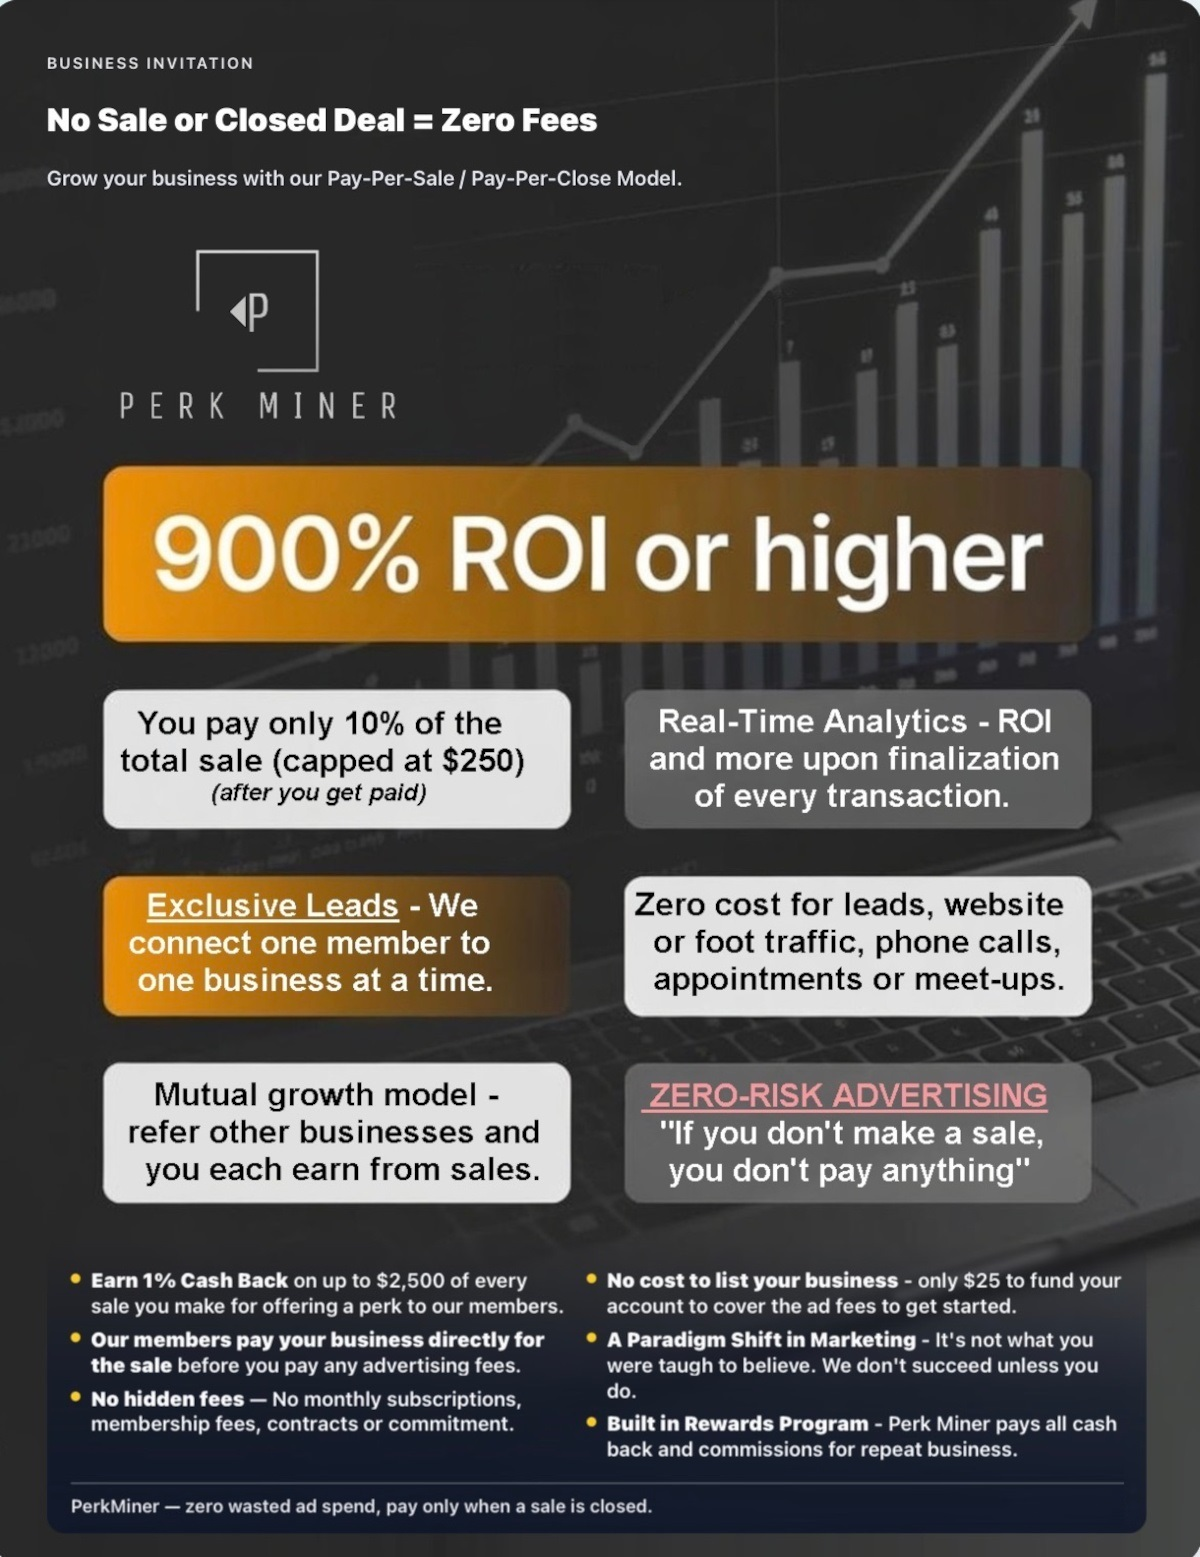
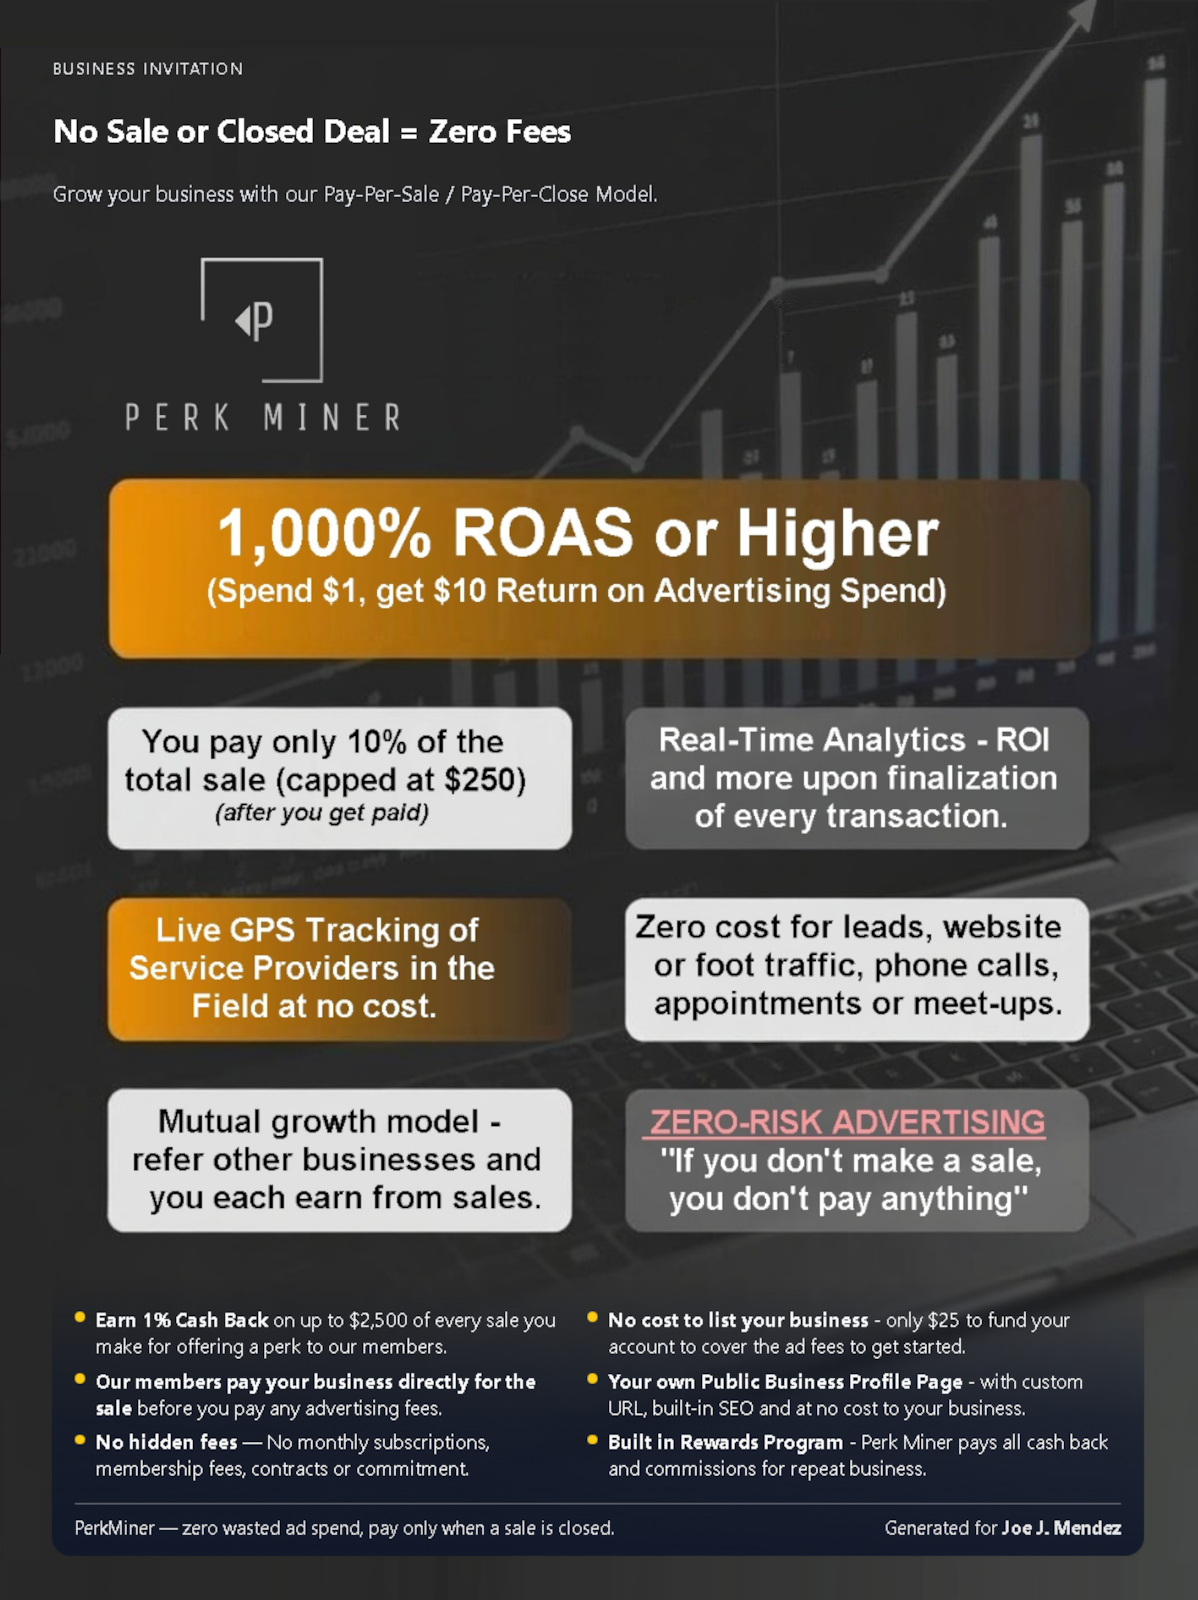
fixed undefined error net pay and updated flyers

diff --git a/templates/dashboard.html b/templates/dashboard.html
@@ -481,10 +481,11 @@
       rows="3"
       class="form-control mb-2"
       style="max-width:520px; font-size:0.9rem;"
-    >Earn 2% cash back and referral commission (real cash - not points or gift cards) on everyday purchases.
-    PAYOUT AND COST:  Perk Miner pays out up to 84% of it's ad revenue from every finalized transaction to members and business owners on up to $2,500 of every purchase made.  Free to Join and always free.
+    >Free to join and always free for members.  Earn 2% cash back on everyday purchases or for paid services rendered (on up to $2,500 of every transaction).
+    Perk Miner LLC re-invests up to 84% of its advertising revenue from every finalized transaction back in the ecosystem with its rewars program in the form of withdrawable earnings deposited to bank accounts; not points, coupons or gift cards.
     PEACE OF MIND:  Search for businesses, product or services with peace of mind through secure messaging and without ever worry about your information being sold as a lead.  No unsolicited phone calls, spam emails or uninvited sales people.  We connect one member to one business at a time and businesses never have access to member contact information.
-    FREE BUSINESS OPPORTUNITY:  Our members have the opportunity to own their own business with zero cost, zero investment and zero risk.  This is your opportunity to own your own advertising agency an grow a real business with real results.  No set hours or office needed.  Just invite people to become members and business owners to advertise and you earn from every finalized transaction (from real sales).
+    LIVE TRACKING:  Have a scheduled appointment for service with one of our advertisers?  With PerkMiner.com, you receive real-time status updates and can track your service provider in real-time when the status is "on the way" with an ETA.  Wrong address?  You can update the correct destination address to make sure they're going to the correct address.
+    FREE BUSINESS OPPORTUNITY:  Our members have the opportunity to own their own business with zero cost, zero investment and zero risk.  This is your opportunity to own your own advertising agency and grow a real business with real results.  No set hours or office needed.  Just invite people to become members and business owners to advertise and you earn from every finalized transaction (from real sales).
     Join PerkMiner through my link today!:
     {{ share_url }}</textarea>
 
@@ -565,7 +566,8 @@
       rows="3"
       class="form-control mb-2"
       style="max-width:520px; font-size:0.9rem;"
-  >Business owners: Want advertising where you only pay when a sale actually closes with 900% ROI or higher?  What about getting exclusive leads at no cost to your business (one member connected to one business at a time and not oversold to your competitors), plus zero cost for website and foot traffic, phone calls, appointments and meetups?
+  >Business owners: Want advertising where you only pay when a sale actually closes with 1000% ROAS (Return on Advertising Spend) or higher (spend $1 = $10 sale)?  What about getting exclusive leads at no cost to your business (one member connected to one business at a time and not oversold to your competitors), plus zero cost for website and foot traffic, phone calls, appointments and meetups?
+   LIVE TRACKING:  Have service techs in the field?  We give you the ability to see every service provider's location in real-time when the status is set to "on the way" and with zero cost to your business.  You receive status updates for every service call and if the destination address is incorrect, members can update the destination address for you (reduced fuel waste, time and unnecessary vehicle wear and tear).
    WHAT'S THE COST?  You simply pay 10% of the sale (capped at $250) after you get paid.  No hidden fees, no contracts, no monthly membership fees, subscriptions.  All you have to do is finalize the transaction once you've received payment and make sure that you have enough in your account balance to cover the advertising fee prior to getting paid.
    REWARDS PROGRAM:  Perk Miner also rewards it's members for making purchases from it's advertisers and it's advertisers for finalizing transactions (all cash back and commissions are paid by Perk Miner from the advertising revenue paid - up to 84% of the advertising revenue is paid out to members and businesses from every finalized transaction).
    MUTUAL GROWTH MODEL:  By joining and inviting other business owners to join, you each earn a commission from each other's sales (finalized transactions) through Perk Miner and at the same time, I am also rewarded.  It's a mutual growth model designed to help businesses prosper and it's all paid by Perk Miner ... not by your business.
@@ -726,9 +728,9 @@
             <i class="bi bi-bank"></i> Standard Payout (1-3 business days)
           </div>
           <div class="text-muted mb-1" style="font-size:0.97em;">
-                Stripe transfer fee to Stripe balance: ${{ '{:,.2f}'.format(std_fee_inv) }} (0.5% + $0.35)<br>
-                If you withdraw full balance to your Stripe balance, you will receive: <b>${{ '{:,.2f}'.format(std_net_inv) }}<br>
-                Stripe may charge an additional fee to send funds to your bank account ($0.25 or more)</b>
+                Perk Miner transfer fee to Stripe balance: ${{ '{:,.2f}'.format(std_fee) }} (0.5% + $0.35)<br>
+                If you withdraw full balance to your Stripe balance, you will receive: <b>${{ '{:,.2f}'.format(std_net) }}<br>
+                Stripe may charge an additional fee to send funds to your bank account.</b>
           </div>
           <form action="{{ url_for('withdraw') }}" method="POST" class="d-inline">
             <input type="hidden" name="csrf_token" value="{{ csrf_token() }}">
@@ -812,9 +814,9 @@
                 <i class="bi bi-bank"></i> Investor Standard Payout (1-3 business days) - Note: If you withdraw regular earnings, you must wait for regular earnings to clear in order to withdraw silent investor earnings.
               </div>
               <div class="text-muted mb-1" style="font-size:0.95em;">
-                Stripe transfer fee to Stripe balance: ${{ '{:,.2f}'.format(std_fee_inv) }} (0.5% + $0.35)<br>
-                If you withdraw full balance to your Stripe balance, you will receive: <b>${{ '{:,.2f}'.format(std_net_inv) }}<br>
-                Stripe may charge an additional fee to send funds to your bank account ($0.25 or more)</b>
+                Perk Miner transfer fee to Stripe balance: ${{ '{:,.2f}'.format(std_fee) }} (0.5% + $0.35)<br>
+                If you withdraw full balance to your Stripe balance, you will receive: <b>${{ '{:,.2f}'.format(std_net) }}<br>
+                Stripe may charge an additional fee to send funds to your bank account.</b>
               </div>
               <form action="{{ url_for('withdraw_investor') }}" method="POST" class="d-inline">
                 <input type="hidden" name="csrf_token" value="{{ csrf_token() }}">

diff --git a/templates/business_dashboard.html b/templates/business_dashboard.html
@@ -386,7 +386,7 @@
     {% if biz_level_code == 'biz_founding_5' %}
       <h5>Congratulations, Founding Business!</h5>
       <p class="mb-2">
-        As a founding business with <strong>5 finalized transactions</strong>, you can upload a testimonial video.
+        As one of our advertisers with <strong>5 finalized transactions</strong>, you can upload a testimonial video.
       </p>
     {% else %}
       <h5>Congratulations! You qualify to upload a Testimonial Video</h5>
@@ -865,14 +865,15 @@
     rows="3"
     class="form-control mb-2"
     style="max-width:520px; font-size:0.9rem;"
-  >Business owners: Want advertising where you only pay when a sale actually closes with 900% ROI or higher?  What about getting exclusive leads at no cost to your business (one member connected to one business at a time and not oversold to your competitors), plus zero cost for website and foot traffic, phone calls, appointments and meetups?
+  >Business owners: Want advertising where you only pay when a sale actually closes with 1000% ROAS (Return on Advertising Spend) or higher (spend $1 = $10 sale)?  What about getting exclusive leads at no cost to your business (one member connected to one business at a time and not oversold to your competitors), plus zero cost for website and foot traffic, phone calls, appointments and meetups?
+   LIVE TRACKING:  Have service techs in the field?  We give you the ability to see every service provider's location in real-time when the status is set to "on the way" and with zero cost to your business.  You receive status updates for every service call and if the destination address is incorrect, members can update the destination address for you (reduced fuel waste, time and unnecessary vehicle wear and tear).
    WHAT'S THE COST?  You simply pay 10% of the sale (capped at $250) after you get paid.  No hidden fees, no contracts, no monthly membership fees, subscriptions.  All you have to do is finalize the transaction once you've received payment and make sure that you have enough in your account balance to cover the advertising fee prior to getting paid.
    REWARDS PROGRAM:  Perk Miner also rewards it's members for making purchases from it's advertisers and it's advertisers for finalizing transactions (all cash back and commissions are paid by Perk Miner from the advertising revenue paid - up to 84% of the advertising revenue is paid out to members and businesses from every finalized transaction).
-   MUTUAL GROWTH MODEL:  By joining and using my referral code, my business earns a commission from every sale (finalized transactions) that your business makes through Perk Miner and at the same time, when my business finalizes a transaction, your business earns a commission (also from every finalized transaction).  It's a mutual growth model designed to help our businesses prosper and it's all paid by Perk Miner ... not by your business.
+   MUTUAL GROWTH MODEL:  By joining and inviting other business owners to join, you each earn a commission from each other's sales (finalized transactions) through Perk Miner and at the same time, I am also rewarded.  It's a mutual growth model designed to help businesses prosper and it's all paid by Perk Miner ... not by your business.
    NEEDED TO GET STARTED:  It only takes $25 to fund your account (this is not a fee, but is used to cover the advertising fee when you make a sale) to get started.  $25 covers $250 in sales.  If your lowest sale is over $2,500, you must deposit $250 or more to cover the advertising fee.
    No special equipment required to finalize transactions and you or your staff can finalize transactions in seconds.  Upon successful finalization of every transaction, you also get real-time analytics and you also see your cash back earned.  That's right!  You earn cash back for finalizing transactions in return for offering a perk to Perk Miner members (you earn 10% of the advertising fee paid).
-   There is zero risk to your business.  Join PerkMiner as an advertiser (become and advertiser like me) through my business invite link today:
-   {{ b2b_share_url }}</textarea>
+   There is zero risk to your business.  Join PerkMiner as an advertiser through my business invite link today:
+{{ business_share_url }}</textarea>
 
   <button
     type="button"
@@ -1093,9 +1094,9 @@
             <i class="bi bi-bank"></i> Standard Payout (1-10 business days)
           </div>
           <div class="text-muted mb-1" style="font-size:0.97em;">
-            Stripe transfer fee to Stripe balance: ${{ '{:,.2f}'.format(std_fee_inv) }} (0.5% + $0.35)<br>
-            If you withdraw full balance to your Stripe balance, you will receive: <b>${{ '{:,.2f}'.format(std_fee_biz) }}<br>
-            Stripe may charge an additional fee to send funds to your bank account ($0.25 or more)</b>
+            Perk Miner transfer fee to Stripe balance: ${{ '{:,.2f}'.format(std_fee_biz) }} (0.5% + $0.35)<br>
+            If you withdraw full balance to your Stripe balance, you will receive: <b>${{ '{:,.2f}'.format(std_net_biz) }}<br>
+            Stripe may charge an additional fee to send funds to your bank account.</b>
           </div>
           <form action="{{ url_for('business_withdraw') }}" method="POST" class="d-inline">
             <input type="hidden" name="csrf_token" value="{{ csrf_token() }}">

diff --git a/app.py b/app.py
@@ -4431,6 +4431,23 @@ def dashboard():
             flash("Profile updated!")
         return redirect(url_for('dashboard'))
 
+    # --- Perk Miner transfer fee preview for regular member earnings ---
+    FEE_RATE = Decimal("0.005")   # 0.5%
+    FIXED_FEE = Decimal("0.35")   # $0.35
+
+    # example basis: use current net_available if > 0, else show example on $100
+    if net_available and net_available > 0:
+        example_balance = net_available
+    else:
+        example_balance = Decimal("100.00")
+
+    std_fee = (example_balance * FEE_RATE + FIXED_FEE).quantize(Decimal("0.01"))
+    std_net = (example_balance - std_fee).quantize(Decimal("0.01"))
+
+    # --- initialize investor fee preview defaults (may be overwritten below) ---
+    std_fee_inv = Decimal("0")
+    std_net_inv = Decimal("0")
+
     # --- Rewards calculator setup ---
     if request.method == "GET":
         form.downline_level.data = '1'
@@ -4574,6 +4591,15 @@ def dashboard():
 
         db.session.commit()
 
+        # investor transfer fee preview
+        if investor_net_available and investor_net_available > 0:
+            example_inv_balance = investor_net_available
+        else:
+            example_inv_balance = Decimal("100.00")
+
+        std_fee_inv = (example_inv_balance * FEE_RATE + FIXED_FEE).quantize(Decimal("0.01"))
+        std_net_inv = (example_inv_balance - std_fee_inv).quantize(Decimal("0.01"))
+
     share_url = url_for("register", ref=user.referral_code, _external=True)
     business_share_url = url_for("business_register", ref=user.referral_code, _external=True)
 
@@ -4612,6 +4638,11 @@ def dashboard():
         available_earnings=available_earnings,           # raw, if you still want it
         net_available_earnings=net_available,            # matches Withdrawable Earnings
         withdrawn_total=withdrawn_total,                 # for "Total withdrawn" row
+
+        std_fee=std_fee,
+        std_net=std_net,
+        std_fee_inv=std_fee_inv,
+        std_net_inv=std_net_inv,
 
         # silent investor summary
         investor_total=investor_total,
@@ -6339,6 +6370,18 @@ def business_dashboard():
 
     db.session.commit()
 
+    # --- Perk Miner transfer fee preview for business earnings ---
+    FEE_RATE = Decimal("0.005")   # 0.5%
+    FIXED_FEE = Decimal("0.35")   # $0.35
+
+    if net_available_biz and net_available_biz > 0:
+        example_balance_biz = net_available_biz
+    else:
+        example_balance_biz = Decimal("100.00")
+
+    std_fee_biz = (example_balance_biz * FEE_RATE + FIXED_FEE).quantize(Decimal("0.01"))
+    std_net_biz = (example_balance_biz - std_fee_biz).quantize(Decimal("0.01"))
+
     if request.args.get("fund_success") == "1":
         flash("Funds added to your account!", "success")
 
@@ -6661,6 +6704,9 @@ def business_dashboard():
         available_biz_earnings=available_biz_earnings,   # raw available (if you still want it)
         net_available_biz_earnings=net_available_biz,    # net available = balance
         biz_withdrawn_total=biz_withdrawn_total,         # total withdrawn
+
+        std_fee_biz=std_fee_biz,
+        std_net_biz=std_net_biz,
 
         b2b_share_url=b2b_share_url,
         biz_level_code=biz_level_code,
@@ -9486,7 +9532,7 @@ def withdraw():
 
         flash(
             f"Withdrawal of ${transfer_amount:.2f} initiated! "
-            f"Perk Miner transfer fee\": ${fee:.2f} deducted. "
+            f"Perk Miner transfer fee: ${fee:.2f} deducted. "
             f"Note: Stripe may also charge a separate withdrawal fee.\"",
             "success"
         )
@@ -9638,7 +9684,7 @@ def business_withdraw():
 
         flash(
             f"Business withdrawal of ${transfer_amount:.2f} initiated! "
-            f"Perk Miner transfer fee\": ${fee:.2f} deducted. "
+            f"Perk Miner transfer fee: ${fee:.2f} deducted. "
             f"Note: Stripe may also charge a separate withdrawal fee.\"",
             "success"
         )
@@ -9784,7 +9830,7 @@ def withdraw_investor():
 
         flash(
             f"Silent investor withdrawal of ${transfer_amount:.2f} initiated! "
-            f"Perk Miner transfer fee\": ${fee:.2f} deducted. "
+            f"Perk Miner transfer fee: ${fee:.2f} deducted. "
             f"Note: Stripe may also charge a separate withdrawal fee.\"",
             "success"
         )
